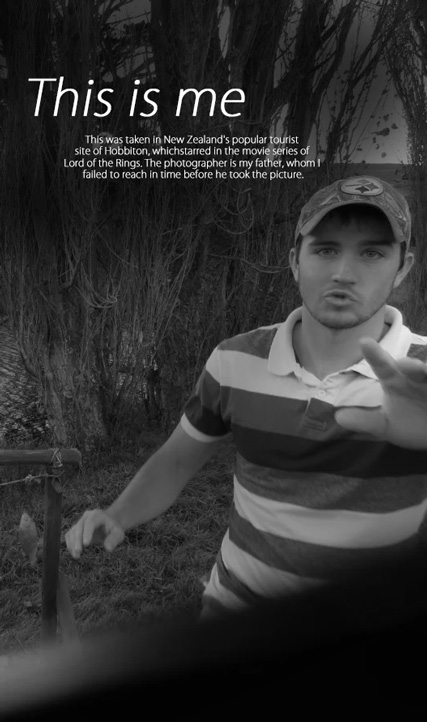
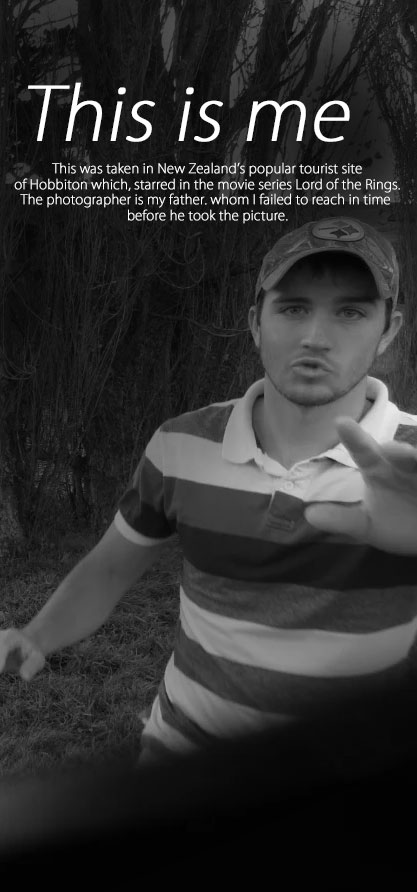
fixed modal bug, improved performacne

diff --git a/src/assets/styles/style.css b/src/assets/styles/style.css
@@ -78,7 +78,6 @@ header > div > a:hover {
 
 .project-card {
 	background-color: #0000006b;
-	margin-left: 3.9em;
 	max-height: 25em;
 	min-width: 15em;
 }
@@ -236,8 +235,8 @@ header > div > a:hover {
 
 	#intro-aboutme {
 		font-size: 10px;
-		top: 26vh;
-		left: 13vh;
+		top: 31vh;
+		left: 6vh;
 	}
 
 	#intro-aboutme-description {
@@ -251,37 +250,6 @@ header > div > a:hover {
 	}
 }
 
-/* Small devices */
-/* @media only screen and (min-width: 0px) {
-	.modal-content {
-		width: 100%;
-	}
-
-	header {
-		background-image: url('../images/nz-me-sm.jpg');
-	}
-
-	#navigation {
-		background-color: #00212c !important;
-	}
-
-	#intro-aboutme {
-		font-size: 10px;
-		top: 16.5em;
-		left: 6.1em;
-	}
-
-	#intro-aboutme-description {
-		width: 150px;
-	}
-
-	#intro-stats {
-		top: 80vh;
-		left: 3vw;
-		font-size: 8px;
-	}
-} */
-
 /* Medium devices */
 @media only screen and (min-width: 688px) {
 	#intro-stats {
@@ -292,8 +260,8 @@ header > div > a:hover {
 
 	#intro-aboutme {
 		font-size: 16px;
-		top: 22em;
-		left: 16em;
+		top: 28em;
+		left: 5.5em;
 	}
 
 	#intro-aboutme-description {
@@ -324,8 +292,8 @@ header > div > a:hover {
 	}
 
 	#intro-aboutme {
-		top: 15.3em;
-		left: 44em;
+		top: 14.5em;
+		left: 52em;
 	}
 }
 

diff --git a/src/components/Projects.js b/src/components/Projects.js
@@ -1,7 +1,6 @@
 import React, { useState, useEffect } from 'react';
 import projectList from '../assets/json/projects.json';
 import Footer from './sub-components/Footer';
-import Modal from './helper-components/Modal';
 import { Carousel } from 'react-bootstrap';
 
 require('../assets/styles/style.css');
@@ -81,7 +80,7 @@ const ProjectCard = (props) => {
 						}}
 						className="mb-5 project-img"
 					/>
-					<Modal />
+					{/* <Modal /> */}
 				</React.Fragment>
 			)}
 			<p className="mb-3 small">
@@ -97,7 +96,7 @@ const Projects = () => {
 	return (
 		<React.Fragment>
 			<section id="projects" className="container-fluid text-light pt-5 section-bg-reverse">
-				<h1 className="pt-5 text-light text-center">Projects</h1>
+				<h1 className="pt-3 text-light text-center">Projects</h1>
 				<div className="d-flex flex-wrap justify-content-around">
 					{projectList.map((project, index) => {
 						return (

diff --git a/src/components/helper-components/Picture.js b/src/components/helper-components/Picture.js
@@ -3,8 +3,8 @@ import React from 'react';
 const Picture = (src1, src2, src3, alt) => {
 	return (
 		<picture>
-			<source media="(min-width:1008px)" srcset={src3} />
-			<source media="(min-width:640px)" srcset={src2} />
+			<source media="(min-width:1008px)" srcSet={src3} />
+			<source media="(min-width:640px)" srcSet={src2} />
 			<img src={src1} alt={alt} />
 		</picture>
 	);
